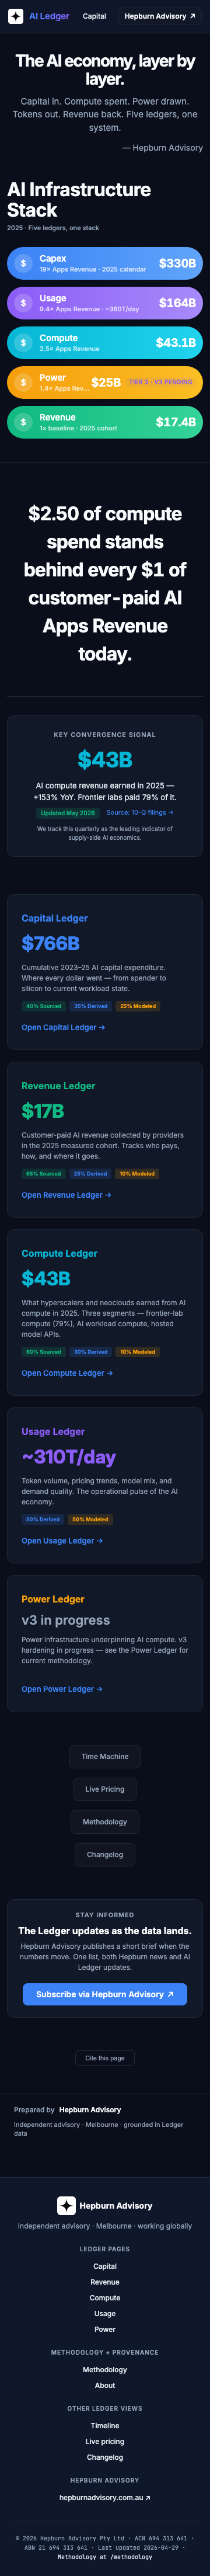
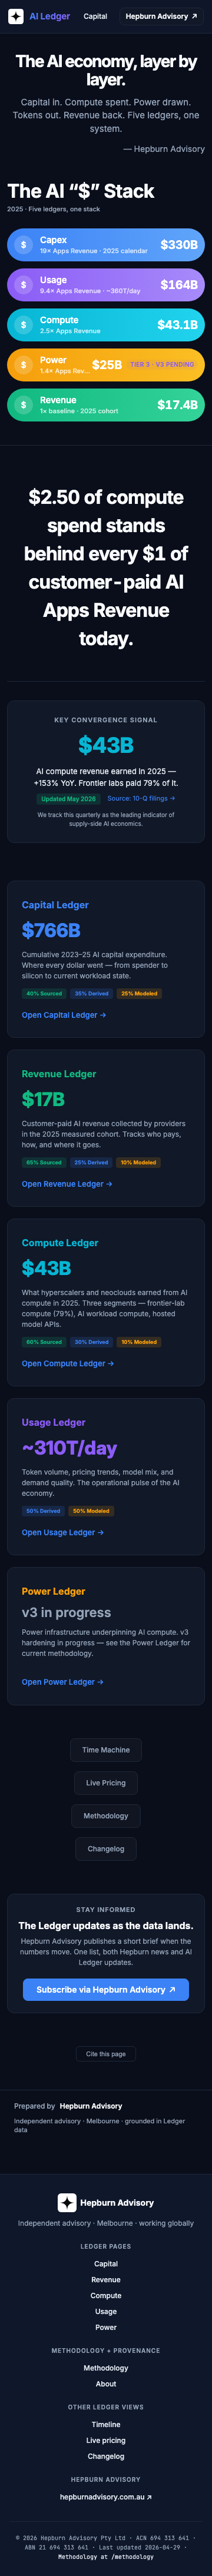
polish(wq-093): rename hero heading "AI Infrastructure Stack" → The AI "$" Stack
Per Simon 2026-05-07 — heading rename. Curly quotes around the dollar
sign (&ldquo;$&rdquo;) for typographic polish; the visual stack is a
dollar-denominated comparison so the "$" in the title is the editorial
hook.

Updated:
- index.html: visible h2 + section aria-label (aria uses "AI dollar
  stack" so screen readers announce it cleanly).
- tests/release-check/homepage.spec.ts: AC3 title assertion now matches
  "The AI “$” Stack" (curly quotes); test name + description
  updated to the new heading.
- changelog.html: two references in the 7 May Homepage entry and the
  6 May Revenue Ledger entry rewritten to the new heading. The class
  name (.ai-infra-stack) and CSS comments are unchanged — internal
  identifiers that don't render.
- tests/release-check/visual.spec.ts-snapshots/: index-mobile-android
  baseline regenerated (only viewport whose pixel diff crossed the 0.2%
  tolerance from the heading text change).

Tests: 21/21 pass on desktop-chrome.

diff --git a/tests/release-check/homepage.spec.ts b/tests/release-check/homepage.spec.ts
@@ -35,10 +35,11 @@ test.describe('index.html — wq-093 five-ledger reframe (Option I)', () => {
     expect(body).not.toContain('three ledgers');
   });
 
-  test('AC3 — AI Infrastructure Stack renders 5 pill bars (Capex → Usage → Compute → Power → Revenue) with correct hrefs', async ({ page }) => {
+  test('AC3 — The AI "$" Stack renders 5 pill bars (Capex → Usage → Compute → Power → Revenue) with correct hrefs', async ({ page }) => {
     const section = page.locator('section.ai-infra-stack');
     await expect(section).toBeVisible();
-    await expect(section.locator('.ais-title')).toHaveText('AI Infrastructure Stack');
+    // Heading text uses curly quotes around the dollar sign (renamed 2026-05-07).
+    await expect(section.locator('.ais-title')).toHaveText('The AI “$” Stack');
 
     const bars = page.locator('.ais-bars .ais-bar');
     await expect(bars).toHaveCount(5);

diff --git a/changelog.html b/changelog.html
@@ -135,7 +135,7 @@
         <span class="entry-date">7 May 2026</span>
         <span class="entry-scope methodology">Homepage</span>
       </div>
-      <div class="entry-text">The homepage is refreshed to reflect the five-ledger architecture. The masthead reads "The AI economy, layer by layer." with a tagline that names every ledger in causal order ("Capital in. Compute spent. Power drawn. Tokens out. Revenue back. Five ledgers, one system."), replacing the prior three-ledger framing.<br><br>A new hero visual — the <strong>AI Infrastructure Stack</strong> — replaces the previous tile strip and the four-step narrative-flow loop. Five horizontal pill bars descend in size by 2025 figure: Capex $330B → Usage $164B (notional at OpenRouter median output rate) → Compute $43B → Power $25B → Apps Revenue $17B. Each bar links through to its ledger; Power carries an explicit Tier 3 placeholder pill until v3 hardens.<br><br>The Apps Revenue figure published on the homepage is restated to the 2025 cohort sum-of-quarterlies basis ($17B), aligning with the Revenue Ledger and the Compute Ledger's Layer Stack. The hook one-liner is now Compute-anchored — $2.50 of compute spend stands behind every $1 of customer-paid AI Apps Revenue. Several editorial sentences (homepage card commentary, hero hook sub-line, sub-headers on the Compute Ledger page) were trimmed at the same time so ledger surfaces stay methodology-first.<br><br>The Bear / Base / Bull scenario toggle is retired from the homepage. wq-093.</div>
+      <div class="entry-text">The homepage is refreshed to reflect the five-ledger architecture. The masthead reads "The AI economy, layer by layer." with a tagline that names every ledger in causal order ("Capital in. Compute spent. Power drawn. Tokens out. Revenue back. Five ledgers, one system."), replacing the prior three-ledger framing.<br><br>A new hero visual — <strong>The AI &ldquo;$&rdquo; Stack</strong> — replaces the previous tile strip and the four-step narrative-flow loop. Five horizontal pill bars descend in size by 2025 figure: Capex $330B → Usage $164B (notional at OpenRouter median output rate) → Compute $43B → Power $25B → Apps Revenue $17B. Each bar links through to its ledger; Power carries an explicit Tier 3 placeholder pill until v3 hardens.<br><br>The Apps Revenue figure published on the homepage is restated to the 2025 cohort sum-of-quarterlies basis ($17B), aligning with the Revenue Ledger and the Compute Ledger's Layer Stack. The hook one-liner is now Compute-anchored — $2.50 of compute spend stands behind every $1 of customer-paid AI Apps Revenue. Several editorial sentences (homepage card commentary, hero hook sub-line, sub-headers on the Compute Ledger page) were trimmed at the same time so ledger surfaces stay methodology-first.<br><br>The Bear / Base / Bull scenario toggle is retired from the homepage. wq-093.</div>
     </div>
 
     <div class="entry" data-scope="compute">
@@ -151,7 +151,7 @@
         <span class="entry-date">6 May 2026</span>
         <span class="entry-scope revenue">Revenue Ledger</span>
       </div>
-      <div class="entry-text">The Revenue Ledger's published headline figure is now the <strong>2025 cohort sum-of-quarterlies total ($17.36B)</strong>. This is the same cohort that flows through to the homepage Apps Revenue card, the AI Infrastructure Stack hero, and the Compute Ledger's Layer Stack — so the figure quoted on every public surface lines up.<br><br>The cumulative-since-2023 framing ($22B) that previously appeared in the homepage hero and meta tags is retired; the Revenue Sankey continues to publish per-provider quarterly flows on the same cohort scope (rebalanced 3 May, see entry below). The change is a framing alignment — provider-level data and the Sankey methodology are unchanged.</div>
+      <div class="entry-text">The Revenue Ledger's published headline figure is now the <strong>2025 cohort sum-of-quarterlies total ($17.36B)</strong>. This is the same cohort that flows through to the homepage Apps Revenue card, The AI &ldquo;$&rdquo; Stack hero, and the Compute Ledger's Layer Stack — so the figure quoted on every public surface lines up.<br><br>The cumulative-since-2023 framing ($22B) that previously appeared in the homepage hero and meta tags is retired; the Revenue Sankey continues to publish per-provider quarterly flows on the same cohort scope (rebalanced 3 May, see entry below). The change is a framing alignment — provider-level data and the Sankey methodology are unchanged.</div>
     </div>
 
     <div class="entry" data-scope="revenue">

diff --git a/index.html b/index.html
@@ -214,11 +214,11 @@
      reconciliation strip (D3: dropped), and the 4-step narrative-flow loop (D4: dropped).
      The bars carry all three jobs — proportional sizing, per-ledger figures, and
      causal narrative — in a single hero section. -->
-<section class="ai-infra-stack" aria-label="AI Infrastructure Stack — five ledgers, descending by 2025 figure">
+<section class="ai-infra-stack" aria-label="The AI dollar stack — five ledgers, descending by 2025 figure">
   <div class="ais-wrap">
    <div class="ais-block">
     <header class="ais-head">
-      <h2 class="ais-title">AI Infrastructure Stack</h2>
+      <h2 class="ais-title">The AI &ldquo;$&rdquo; Stack</h2>
       <span class="ais-subtitle">2025 · Five ledgers, one stack</span>
     </header>
 